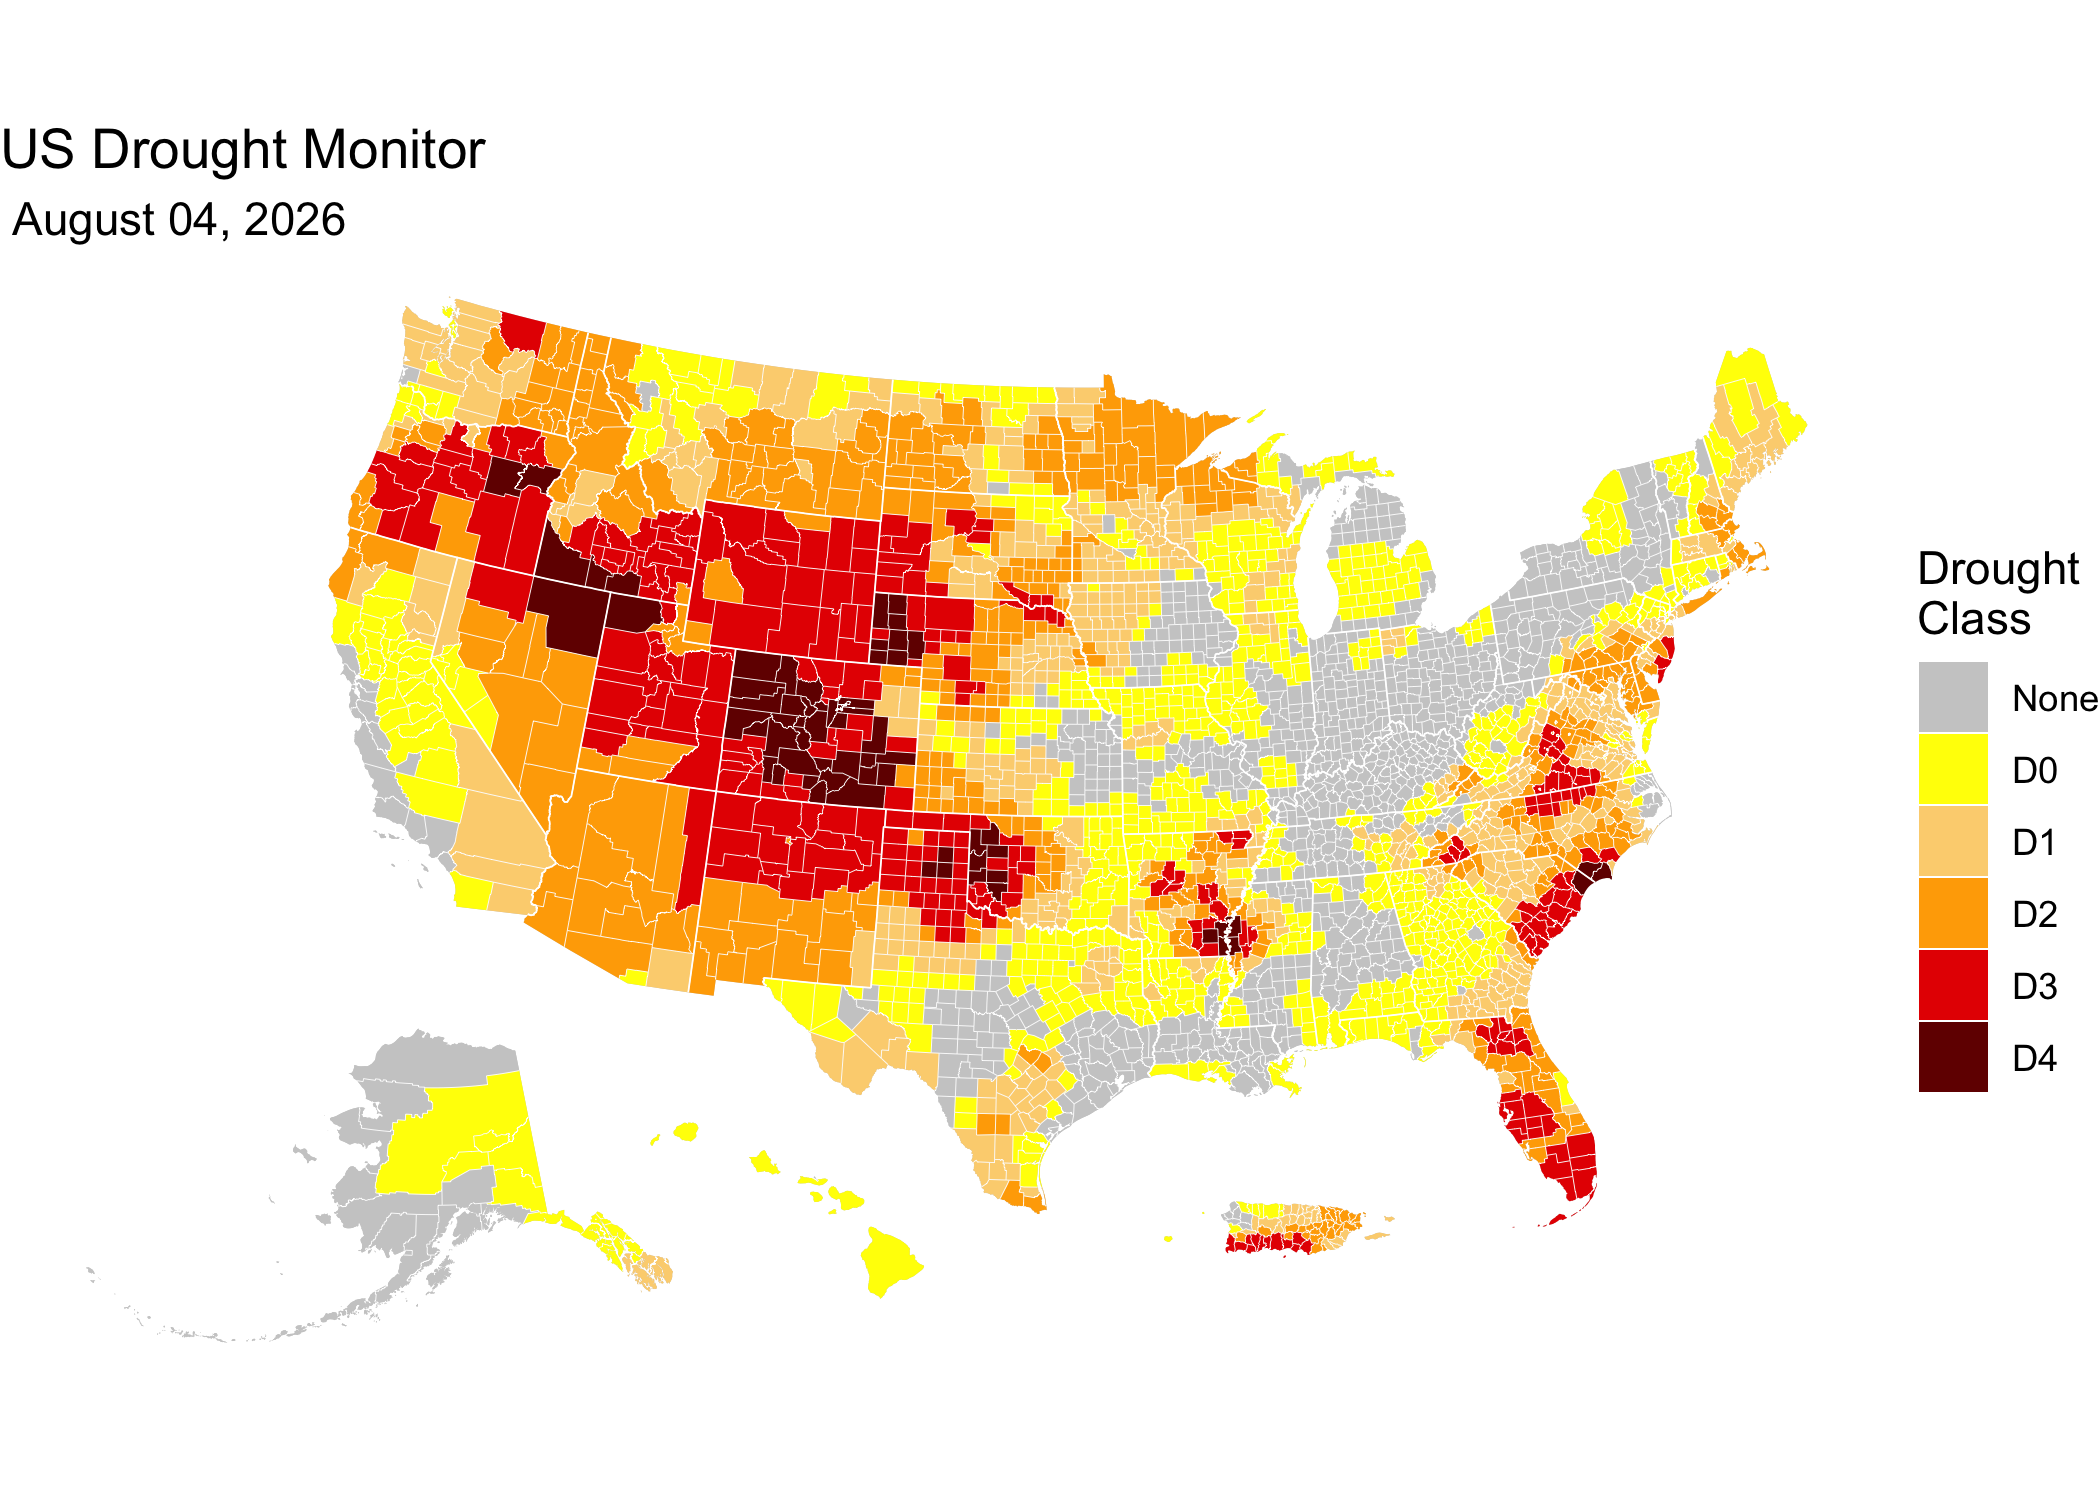
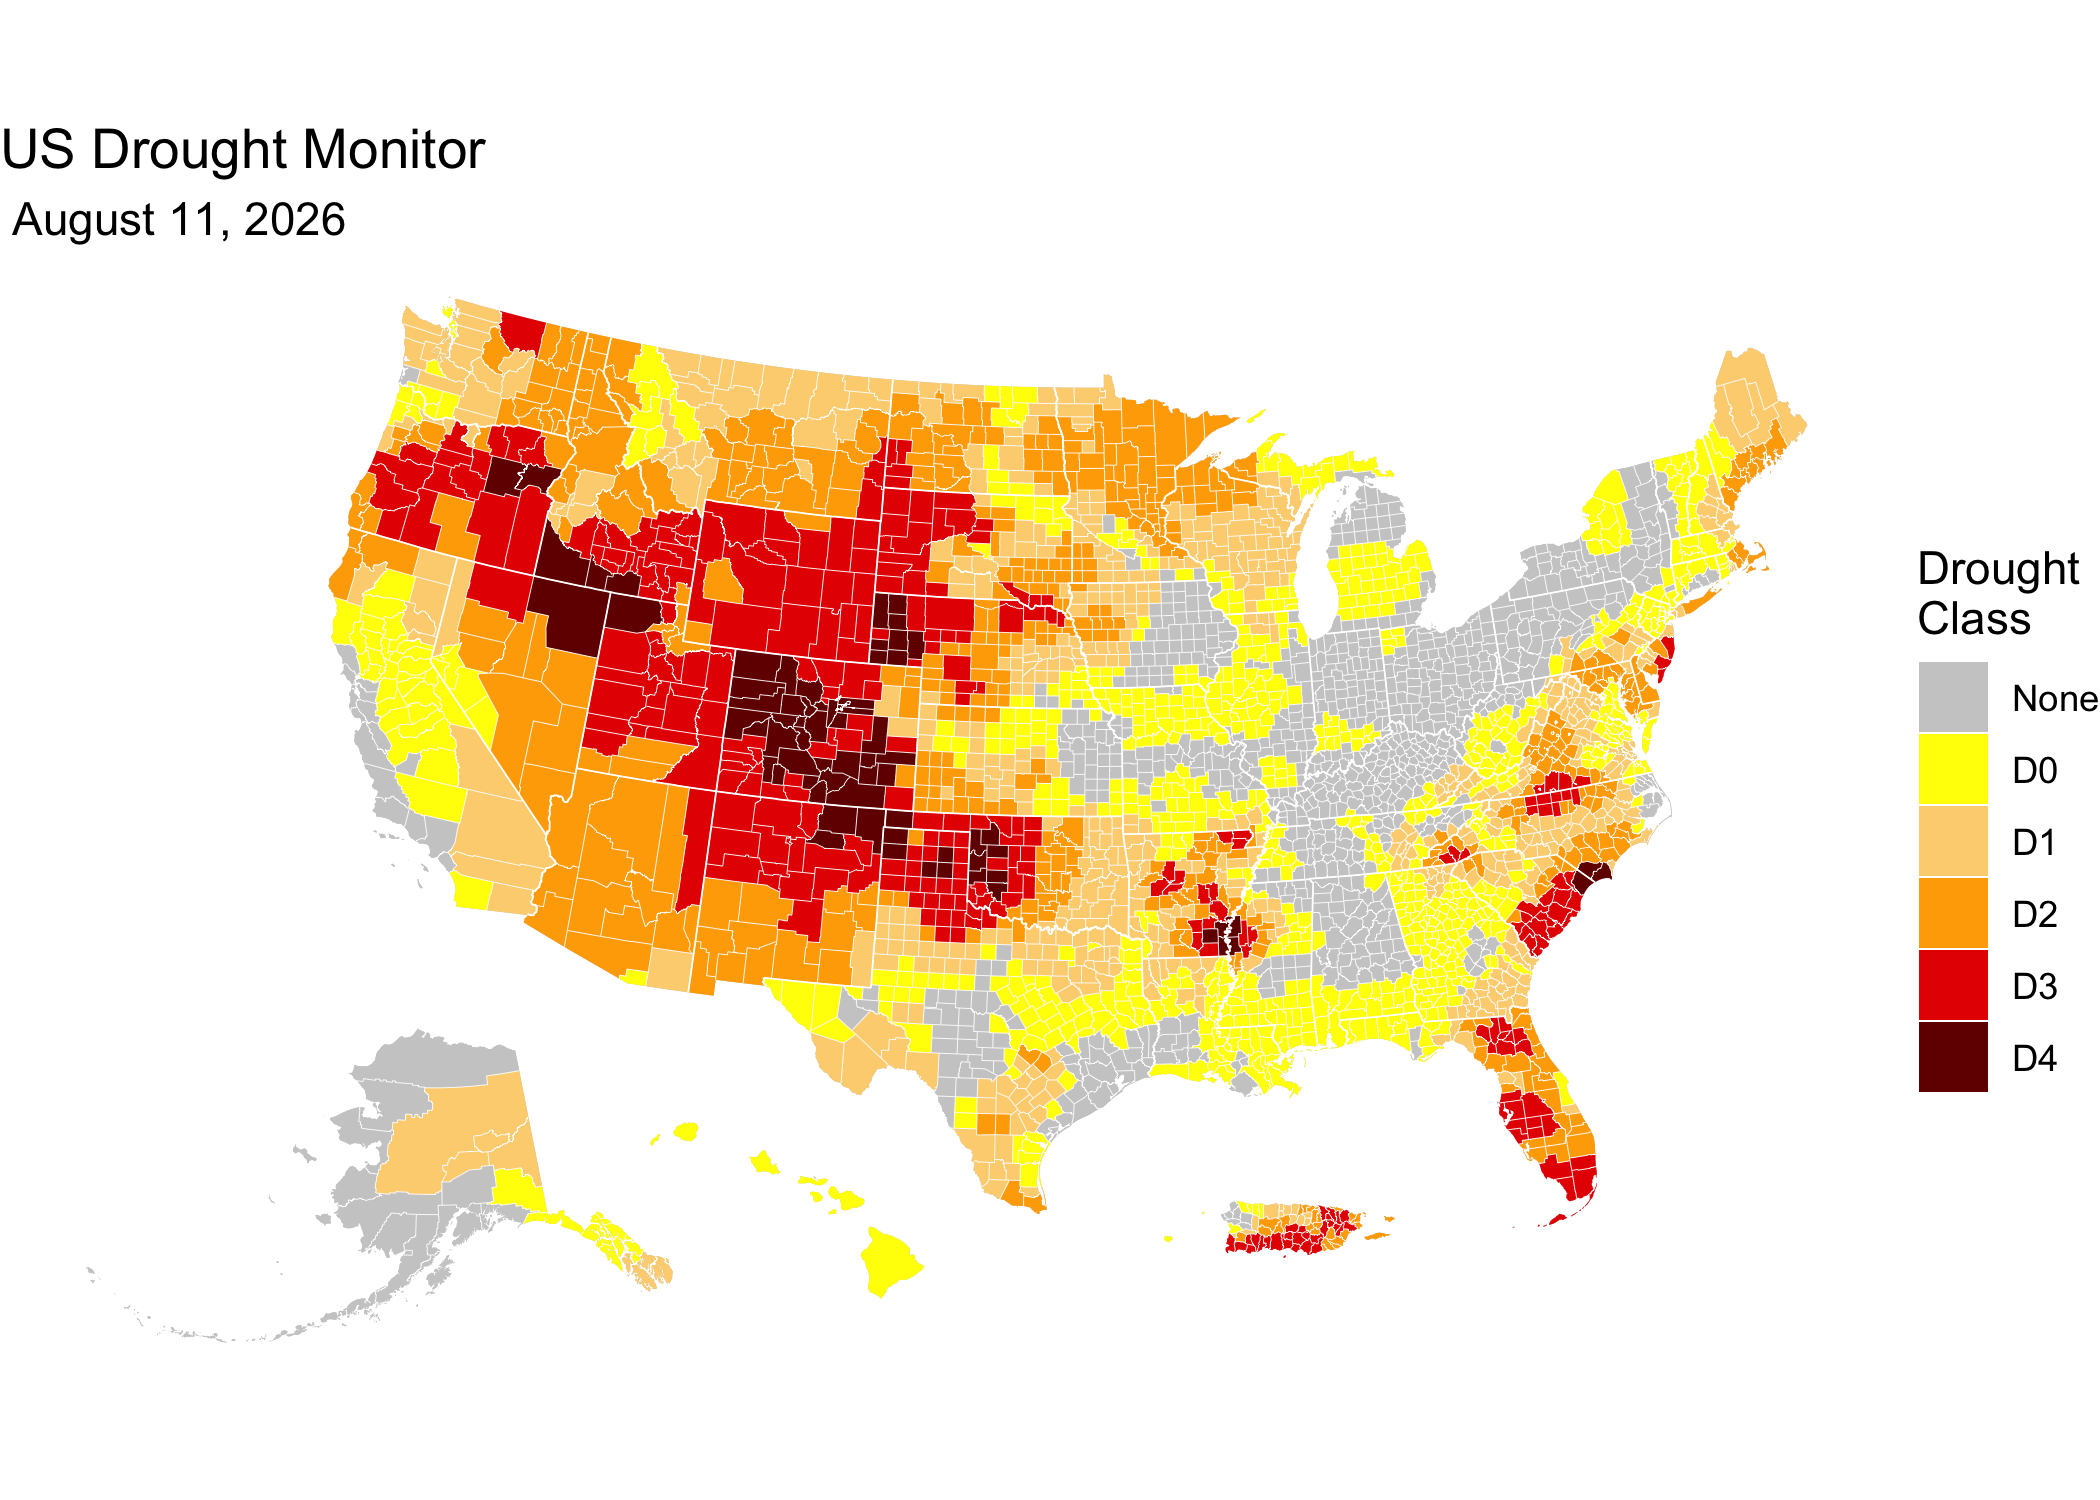
Weekly README render

diff --git a/README.md b/README.md
@@ -255,7 +255,7 @@ ggplot(counties) +
 
 <img src="./example-1.png" alt="" style="display: block; margin: auto;" />
 
-Latest USDM map date: **August 04, 2026**
+Latest USDM map date: **August 11, 2026**
 
 ------------------------------------------------------------------------
 
